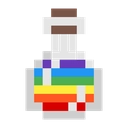
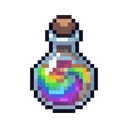
Update emojis, updated hive-ce reminder, updated diamond skin, bugfixes

diff --git a/content/rebirth.py b/content/rebirth.py
@@ -42,21 +42,20 @@ async def command_rebirth_guide(
         text_displays = await functions.parse_text_displays(bot_message)
         for text_display in text_displays:
             inventory = f'{inventory}{text_display}\n'
-    inventory_data['apple'] = await functions.get_inventory_item(inventory, 'apple')
-    inventory_data['chestnut_leaf'] = await functions.get_inventory_item(inventory, 'chestnutleaf')
-    inventory_data['copper_nugget'] = await functions.get_inventory_item(inventory, 'coppernugget')
-    inventory_data['energy_drink'] = await functions.get_inventory_item(inventory, 'energydrink')
-    inventory_data['epic_potion'] = await functions.get_inventory_item(inventory, 'epicpotion')
-    inventory_data['golden_nugget'] = await functions.get_inventory_item(inventory, 'goldennugget')
-    inventory_data['golden_sapling'] = await functions.get_inventory_item(inventory, 'golden_sapling')
-    inventory_data['honey'] = await functions.get_inventory_item(inventory, 'honey')
-    inventory_data['honey_pot'] = await functions.get_inventory_item(inventory, 'honeypot')
-    inventory_data['insecticide'] = await functions.get_inventory_item(inventory, 'insecticide')
-    inventory_data['leaf'] = await functions.get_inventory_item(inventory, 'leaf')
-    inventory_data['silver_nugget'] = await functions.get_inventory_item(inventory, 'silvernugget')
-    inventory_data['sweet_apple'] = await functions.get_inventory_item(inventory, 'sweet_apple')
-    inventory_data['water_bottle'] = await functions.get_inventory_item(inventory, 'waterbottle')
-    inventory_data['wooden_nugget'] = await functions.get_inventory_item(inventory, 'woodennugget')
+    inventory_data['apple'] = await functions.get_inventory_item(inventory, 'apple_2')
+    inventory_data['chestnut_leaf'] = await functions.get_inventory_item(inventory, 'chestnut_leaf_2')
+    inventory_data['copper_nugget'] = await functions.get_inventory_item(inventory, 'copper_nugget_2')
+    inventory_data['energy_drink'] = await functions.get_inventory_item(inventory, 'edrink_2')
+    inventory_data['epic_potion'] = await functions.get_inventory_item(inventory, 'epic_potion_2')
+    inventory_data['golden_nugget'] = await functions.get_inventory_item(inventory, 'golden_nugget_2')
+    inventory_data['golden_sapling'] = await functions.get_inventory_item(inventory, 'golden_sapling_2')
+    inventory_data['honey'] = await functions.get_inventory_item(inventory, 'honey_3')
+    inventory_data['insecticide'] = await functions.get_inventory_item(inventory, 'insecticide_2')
+    inventory_data['leaf'] = await functions.get_inventory_item(inventory, 'leaf_2')
+    inventory_data['silver_nugget'] = await functions.get_inventory_item(inventory, 'silver_nugget_2')
+    inventory_data['sweet_apple'] = await functions.get_inventory_item(inventory, 'sweet_apple_2')
+    inventory_data['water_bottle'] = await functions.get_inventory_item(inventory, 'water_bottle_2')
+    inventory_data['wood'] = await functions.get_inventory_item(inventory, 'wood_3')
     embed = await embed_rebirth_guide(ctx_or_message, inventory_data, user, miri_mode, user_settings)
     if isinstance(ctx_or_message, discord.ApplicationContext):
         await ctx_or_message.respond(embed=embed)
@@ -69,7 +68,7 @@ async def embed_rebirth_guide(ctx_or_message: Union[discord.ApplicationContext, 
                               inventory_data: Dict, user: discord.User, miri_mode: bool, user_settings: users.User) -> discord.Embed:
     """Rebirth guide embed"""
     copper_nuggets = inventory_data['copper_nugget'] + (inventory_data['silver_nugget'] * 8)
-    wooden_nuggets = inventory_data['wooden_nugget']
+    wooden_nuggets = inventory_data['wood']
     copper_nuggets_crafted = 0
     copper_nuggets_dismantled = 0
     insecticides_crafted = 0
@@ -91,17 +90,9 @@ async def embed_rebirth_guide(ctx_or_message: Union[discord.ApplicationContext, 
             break
     apples = inventory_data['apple']
     honey = inventory_data['honey']
-    honey_pots = inventory_data['honey_pot']
-    sweet_apples_crafted_without_crafting = min(honey // 10, honey_pots // 2)
-    honey_left_after_sweet_apples_craft = honey - (sweet_apples_crafted_without_crafting * 10)
-    if honey_left_after_sweet_apples_craft < 0: honey_left_after_sweet_apples_craft = 0
-    honey_pots_left_after_sweet_apples_craft = honey_pots - (sweet_apples_crafted_without_crafting * 2)
-    if honey_pots_left_after_sweet_apples_craft < 0: honey_pots_left_after_sweet_apples_craft = 0
-    sweet_apples_crafted = min((sweet_apples_crafted_without_crafting + (honey_left_after_sweet_apples_craft // 30)), apples // 10)
+    sweet_apples_crafted = min(honey // 30, apples // 10)
     apples = apples - (sweet_apples_crafted * 10)
-    honey_pots_crafted = sweet_apples_crafted * 2 - honey_pots
-    if honey_pots_crafted < 0: honey_pots_crafted = 0
-    honey = honey - (honey_pots_crafted * 10)
+    honey = honey - (sweet_apples_crafted * 30)
     leaves = inventory_data['leaf']
     epic_potions_crafted = min(inventory_data['golden_sapling'], honey // 10, leaves)
     honey = honey - (epic_potions_crafted * 10)
@@ -120,7 +111,7 @@ async def embed_rebirth_guide(ctx_or_message: Union[discord.ApplicationContext, 
         f'{emojis.ENERGY} {strings.SLASH_COMMANDS["raid"]} to empty your energy\n'
         f'{emojis.READY} {strings.SLASH_COMMANDS["hive claim energy"]} if ready\n'
         f'{emojis.ENERGY} {strings.SLASH_COMMANDS["raid"]} to empty your energy\n'
-        f'{emojis.ENERGY_DRINK} {strings.SLASH_COMMANDS["use"]} as many energy drinks as you can if you have any\n'
+        f'{emojis.ENERGY_DRINK} {strings.SLASH_COMMANDS["use"]} your energy drink if you can\n'
         f'{emojis.ENERGY} {strings.SLASH_COMMANDS["raid"]} to empty your energy\n'
         f'{emojis.CHEST_WOODEN} If you have chests ready, do **not** open them until after rebirth\n'
     )
@@ -146,13 +137,8 @@ async def embed_rebirth_guide(ctx_or_message: Union[discord.ApplicationContext, 
             f'{craft_dismantle}\n'
             f'{emojis.INSECTICIDE} {strings.SLASH_COMMANDS["craft"]} `all` insecticides'
         )
-    if honey_pots_crafted > 0:
-        craft_dismantle = (
-            f'{craft_dismantle}\n'
-            f'{emojis.HONEY_POT} {strings.SLASH_COMMANDS["craft"]} `{honey_pots_crafted:,}` honey pots'
-        )
     if sweet_apples_crafted > 0:
-        if apples < 10 or (sweet_apples_crafted == (honey_pots + honey_pots_crafted) // 2):
+        if apples < 10 or (sweet_apples_crafted == (honey + sweet_apples_crafted) // 30):
             sweet_apples_amount = 'all'
         else:
             sweet_apples_amount = f'{sweet_apples_crafted:,}'
@@ -169,11 +155,6 @@ async def embed_rebirth_guide(ctx_or_message: Union[discord.ApplicationContext, 
         craft_dismantle = (
             f'{craft_dismantle}\n'
             f'{emojis.WATER_BOTTLE} {strings.SLASH_COMMANDS["craft"]} `all` water bottles'
-        )
-    if honey >= 10 and not miri_mode:
-        craft_dismantle = (
-            f'{craft_dismantle}\n'
-            f'{emojis.HONEY_POT} {strings.SLASH_COMMANDS["craft"]} `all` honey pots'
         )
     if craft_dismantle == '':
         craft_dismantle = f'{emojis.ENABLED} All done!'
@@ -245,11 +226,6 @@ async def embed_rebirth_guide(ctx_or_message: Union[discord.ApplicationContext, 
         sell = (
             f'{sell}\n'
             f'{emojis.WATER_BOTTLE} {strings.SLASH_COMMANDS["sell"]} `all` water bottles'
-        )
-    if inventory_data['honey_pot'] > 0 or honey_pots_crafted > 0 and not miri_mode:
-        sell = (
-            f'{sell}\n'
-            f'{emojis.HONEY_POT} {strings.SLASH_COMMANDS["sell"]} `all` honey pots'
         )
     if leaves > 0 and not miri_mode:
         sell = (

diff --git a/resources/emojis.py b/resources/emojis.py
@@ -1,13 +1,13 @@
 # emojis.py
 
 # Tree
-APPLE = '<:apple:1086547706576637952>'
+APPLE = '<:apple:1549480871042752643>'
 BEE_BREAD = '<:bee_bread:1479878730502639807>'
 BOOST_DROP_CHANCE = '<:boost_drop_chance:1084374702736281641>'
 BOOST_RAID_SHIELD = '<:boost_raid_shield:1084374704766320670>'
 BOOST_XP = '<:boost_xp:1084374706330796102>'
 BUNNY = '<:bunny:1489545764001550366>'
-CANDY = '<:candy:1488946213285007461> '
+CANDY = '<:candy:1488946213285007461>'
 CHEST_EASTER = '<:chest_easter:1488604338472488970>'
 CHEST_GOLDEN = '<:chest_golden:1546926428820475904>'
 CHEST_VALENTINE = '<:chest_valentine:1472508100643651584>'
@@ -16,8 +16,7 @@ CHEST_WOODEN = '<:chest_wooden:1546926427314847844>'
 CHIPS = '<a:chips:1502242232856612985>'
 COOLDOWN = '<:cooldown:1086191055092846602>'
 COIN = '<:coin:1267761357554454578>'
-CRYSTAL = '<:crystal:1082741292800413696>'
-DIAMOND_RING = '<:diamondring:1267761355868602368>'
+CRYSTAL = '<:crystal:1550074945491706017>'
 DIRT = '<:dirt:1082741278913073232>'
 DONOR0 = '<:donor0:1082758335796879380>'
 DONOR1 = '<:donor1:1082741417673228410>'
@@ -26,38 +25,37 @@ DONOR3 = '<:donor3:1082741306444501002>'
 DONOR4 = '<:donor4:1082741419984298095>'
 DONOR5 = '<:donor5:1082741303156158515>'
 ENERGY = '<:energy:1082741290803925102>'
-ENERGY_DRINK = '<:energy_drink:1086547709990805504>'
-EPIC_POTION = '<:epic_potion:1086547711320399892>'
+ENERGY_DRINK = '<:energy_drink:1549480873043427368>'
+EPIC_POTION = '<:epic_potion:1549480876910448680>'
 EPICNESS = '<:epicness:1489545813884403782>'
 FERTILITY = '<:fertility:1489545816308977664>'
-GEM = '<a:gem:1267761359085506603>'
+GEM = '<a:gem:1549482562391376022>'
 HIVE = '<:hive:1082741277713498152>'
-HONEY = '<:honey:1086547713669206057> '
-HONEY_POT = '<:honey_pot:1086547715166572665> '
-INCUBATOR = '<:incubator:1479879484936032278>'
-INSECTICIDE = '<:insecticide:1084374707710734427>'
+HONEY = '<:honey:1549480867544440902>'
+INCUBATOR = '<:incubator:1550142458153668738>'
+INSECTICIDE = '<:insecticide:1549480874553245696>'
 LABORATORY = '<:laboratory:1086191057324212254>'
 LARVA_QUEEN = '<:larva_queen:1479521131768709171>'
 LARVA_SOLDIER = '<:larva_soldier:1479521133014286336>'
 LARVA_WORKER = '<:larva_worker:1479521135015235775>'
-LEAF = '<:leaf:1086547717372772372> '
-LEAF_CHESTNUT = '<:leaf_chestnut:1086547708229189665> '
-LOADING = '<a:loading:1086547718572343408> '
+LEAF = '<:leaf:1549480880718872576>'
+LEAF_CHESTNUT = '<:leaf_chestnut:1549480878806401145>'
+LOADING = '<a:loading:1086547718572343408>'
 LUCK = '<:luck:1082741284407607420>'
-NUGGET_COPPER = '<:nugget_copper:1084824592444575794>'
-NUGGET_DIAMOND = '<a:nugget_diamond:1137987908113027112>'
-NUGGET_GOLDEN = '<:nugget_golden:1084824587633705010>'
-NUGGET_SILVER = '<:nugget_silver:1084824590682955836>'
-NUGGET_WOODEN = '<:nugget_wooden:1084824593950310410>'
+MEDAL_DIAMOND = '<:medal_diamond:1549480865162338434>'
+MEDAL_GOLDEN = '<:medal_golden:1549480863367045173>'
+NUGGET_COPPER = '<:nugget_copper:1549480920053059685>'
+NUGGET_DIAMOND = '<:nugget_diamond:1549480894358618182>'
+NUGGET_GOLDEN = '<:nugget_golden:1549480896199917759>'
+NUGGET_SILVER = '<:nugget_silver:1549481155974271147>'
 PUMPKIN = '<:pumpkin:1164496368941944852>'
 PRUNER_COPPER = '<:pruner_copper:1082741295665139825>'
 PRUNER_DIAMOND = '<:pruner_diamond:1112255493747003433>'
 PRUNER_GOLDEN = '<:pruner_golden:1082741570647900301>'
 PRUNER_SILVER = '<:pruner_silver:1082741573344821299>'
 PRUNER_WOODEN = '<:pruner_wooden:1082741574930272287>'
-QUEEN_BEE_A = '<a:queen_bee:1350083320502947951>'
-QUEEN_BEE_S = '<:queen_bee:1084374709669466202>'
-READY = '<:ready:1086547721692917790> '
+QUEEN_BEE = '<a:queen_bee_a:1550139034590904380>'
+READY = '<:ready:1086547721692917790>'
 REBIRTH = '<:rebirth:1084519060118708314>'
 RESEARCH = '<:research:1082741280783741070>'
 ROYAL_JELLY = '<:royal_jelly:1479878733962809506>'
@@ -78,11 +76,12 @@ SKIN_VALENTINE = '<:skin_valentine:1473051388069154958>'
 SKIN_VECTOR = '<:skin_vector:1267725152502677568>'
 SKIN_XMAS = '<:skin_xmas:1267725127668207660>'
 SOLDIER_BEE = '<a:soldier_bee:1350083322059161600>'
-STAT_LEVEL = '<:stat_level:1084526033337847818> '
-STAT_XP = '<:stat_xp:1084519075503427664> '
-SWEET_APPLE = '<:sweet_apple:1082741576167604364>'
+STAT_LEVEL = '<:stat_level:1084526033337847818>'
+STAT_XP = '<:stat_xp:1084519075503427664>'
+SWEET_APPLE = '<:sweet_apple:1549480882992058428>'
 UPGRADE = '<:upgrade:1082741282264330310>'
-WATER_BOTTLE = '<:water_bottle:1086547745793392670> '
+WATER_BOTTLE = '<:water_bottle:1549489489762586684>'
+WOOD = '<:wood:1549480922787745932>'
 XP = '<:xp:1083662635607789569>'
 
 # Misc

diff --git a/processing/hive.py b/processing/hive.py
@@ -1,10 +1,11 @@
 # hive.py
 
 from datetime import timedelta
+import random
 from typing import Dict, Optional
 
 import discord
-from discord import message
+from discord import utils
 
 from cache import messages
 from database import reminders, users
@@ -55,11 +56,14 @@ async def create_reminder(message: discord.Message, embed_data: Dict, user: Opti
         if not user_settings.bot_enabled: return add_reaction
         if user_settings.reminder_hive_energy.enabled or user_settings.ready_show_hive_energy:
             user_command = await functions.get_game_command(user_settings, 'hive claim energy')
-            time_left = await functions.calculate_time_left_from_cooldown(message, user_settings, 'hive-energy')
-            if time_left < timedelta(0): return add_reaction
+            current_time = utils.utcnow()
+            midnight_today = current_time.replace(hour=0, minute=0, microsecond=0)
+            end_time = midnight_today + timedelta(days=1, seconds=random.randint(0, 300))
+            time_to_midnight = end_time - current_time
+            user_command = await functions.get_game_command(user_settings, 'calendar')
             reminder_message = user_settings.reminder_hive_energy.message.replace('{command}', user_command)
             reminder: reminders.Reminder = (
-                await reminders.insert_reminder(user.id, 'hive-energy', time_left,
+                await reminders.insert_reminder(user.id, 'hive-energy', time_to_midnight,
                                                 message.channel.id, reminder_message)
             )
             if user_settings.reactions_enabled and reminder.record_exists:

diff --git a/processing/prune.py b/processing/prune.py
@@ -76,11 +76,11 @@ async def create_reminder(message: discord.Message, embed_data: Dict, user: Opti
         current_time = utils.utcnow().replace(microsecond=0)
         if user_settings.tracking_enabled:
             await tracking.insert_log_entry(user.id, message.guild.id, 'prune', current_time)
-        nugget_wooden_match = re.search(r'woodennugget:\d+>\s*\*\*(.+?)\*\*', message.content.lower())
-        nugget_copper_match = re.search(r'coppernugget:\d+>\s*\*\*(.+?)\*\*', message.content.lower())
-        nugget_silver_match = re.search(r'silvernugget:\d+>\s*\*\*(.+?)\*\*', message.content.lower())
-        nugget_golden_match = re.search(r'goldennugget:\d+>\s*\*\*(.+?)\*\*', message.content.lower())
-        nugget_diamond_match = re.search(r'diamondnugget:\d+>\s*\*\*(.+?)\*\*', message.content.lower())
+        nugget_wooden_match = re.search(r'wood_3:\d+>\s*\*\*(.+?)\*\*', message.content.lower())
+        nugget_copper_match = re.search(r'copper_nugget_2:\d+>\s*\*\*(.+?)\*\*', message.content.lower())
+        nugget_silver_match = re.search(r'silver_nugget_2:\d+>\s*\*\*(.+?)\*\*', message.content.lower())
+        nugget_golden_match = re.search(r'golden_nugget_2:\d+>\s*\*\*(.+?)\*\*', message.content.lower())
+        nugget_diamond_match = re.search(r'diamond_nugget_2:\d+>\s*\*\*(.+?)\*\*', message.content.lower())
         bee_bread_match = re.search(r'beebread:\d+>\s*\*\*(.+?)\*\*', message.content.lower())
         royal_jelly_match = re.search(r'royaljelly:\d+>\s*\*\*(.+?)\*\*', message.content.lower())
         if nugget_wooden_match:

diff --git a/processing/raid.py b/processing/raid.py
@@ -61,7 +61,7 @@ async def call_helpers_on_failed_raid(message: discord.Message, embed_data: Dict
         message_content = None
         if user_settings.helper_context_enabled:
             message_content = f"➜ {strings.SLASH_COMMANDS['raid']}"
-            if 'chest' in embed_data['field0']['value'].lower():
+            if 'chest' in embed_data['field1']['value'].lower():
                 message_content = f"➜ {strings.SLASH_COMMANDS['chests']}\n{message_content}"
         if message_content:
             await message.reply(message_content)
@@ -101,13 +101,13 @@ async def call_helpers_on_successful_raid(message: discord.Message, embed_data: 
                 return add_reaction
         if not user_settings.bot_enabled: return add_reaction
 
-        if 'chest' in embed_data['field0']['value'].lower():
+        if 'chest' in embed_data['field1']['value'].lower():
             await user_settings.update(chests_in_queue=user_settings.chests_in_queue + 1)
         
         message_content = None
         if user_settings.helper_context_enabled:
             message_content = f"➜ {strings.SLASH_COMMANDS['raid']}"
-            if 'chest' in embed_data['field0']['value'].lower():
+            if 'chest' in embed_data['field1']['value'].lower():
                 message_content = f"➜ {strings.SLASH_COMMANDS['chests']}\n{message_content}"
         if message_content:
             await message.reply(message_content)

diff --git a/processing/incubator.py b/processing/incubator.py
@@ -263,11 +263,11 @@ async def create_nugget_alert(message: discord.Message, embed_data: Dict, user: 
         if not user_settings.bot_enabled or not user_settings.alert_nugget_enabled: return add_reaction
 
         dropped_nuggets = {}
-        nugget_wooden_match = re.search(r'\*\*`(.+?)`\*\*.+woodennugget', fields.lower())
-        nugget_copper_match = re.search(r'\*\*`(.+?)`\*\*.+coppernugget', fields.lower())
-        nugget_silver_match = re.search(r'\*\*`(.+?)`\*\*.+silvernugget', fields.lower())
-        nugget_golden_match = re.search(r'\*\*`(.+?)`\*\*.+goldennugget', fields.lower())
-        nugget_diamond_match = re.search(r'\*\*`(.+?)`\*\*.+diamondnugget', fields.lower())
+        nugget_wooden_match = re.search(r'\*\*`(.+?)`\*\*.+wood', fields.lower())
+        nugget_copper_match = re.search(r'\*\*`(.+?)`\*\*.+copper_nugget', fields.lower())
+        nugget_silver_match = re.search(r'\*\*`(.+?)`\*\*.+silver_nugget', fields.lower())
+        nugget_golden_match = re.search(r'\*\*`(.+?)`\*\*.+golden_nugget', fields.lower())
+        nugget_diamond_match = re.search(r'\*\*`(.+?)`\*\*.+diamond_nugget', fields.lower())
         if nugget_wooden_match:
             nugget_wooden_amount = int(re.sub(r'\D', '', nugget_wooden_match.group(1)))
             dropped_nuggets['Wooden'] = nugget_wooden_amount

diff --git a/processing/chests.py b/processing/chests.py
@@ -61,9 +61,9 @@ async def call_context_helper_on_chest_open(message: discord.Message, embed_data
         if rebirth_match:
             rebirth_amount = int(re.sub(r'\D', '', rebirth_match.group(1)))
             await user_settings.update(rebirth=user_settings.rebirth + rebirth_amount)
+        dropped_nuggets = {}
         if user_settings.alert_nugget_enabled:
-            dropped_nuggets = {}
-            nugget_wooden_match = re.search(r'`(.+?)`.+?\*\*wooden nugget', embed_data['field0']['value'].lower())
+            nugget_wooden_match = re.search(r'`(.+?)`.+?\*\*wood', embed_data['field0']['value'].lower())
             nugget_copper_match = re.search(r'`(.+?)`.+?\*\*copper nugget', embed_data['field0']['value'].lower())
             nugget_silver_match = re.search(r'`(.+?)`.+?\*\*silver nugget', embed_data['field0']['value'].lower())
             nugget_golden_match = re.search(r'`(.+?)`.+?\*\*golden nugget', embed_data['field0']['value'].lower())

diff --git a/resources/strings.py b/resources/strings.py
@@ -132,7 +132,7 @@ ACTIVITIES_BOOSTS_EMOJIS = {
     'drop-chance-boost': emojis.BOOST_DROP_CHANCE,
     'easter-candy': emojis.CANDY,
     'insecticide': emojis.INSECTICIDE,
-    'queen-bee-boost': emojis.QUEEN_BEE_S,
+    'queen-bee-boost': emojis.QUEEN_BEE,
     'raid-shield': emojis.BOOST_RAID_SHIELD,
     'spooky-boost': emojis.PUMPKIN,
     'sweet-apple': emojis.SWEET_APPLE,
@@ -347,7 +347,7 @@ SKIN_XMAS = 'skin_xmas'
 SKIN_PHOENIX = 'skin_phoenix'
 
 NUGGETS = {
-    'Wooden': emojis.NUGGET_WOODEN,
+    'Wooden': emojis.WOOD,
     'Copper': emojis.NUGGET_COPPER,
     'Silver': emojis.NUGGET_SILVER,
     'Golden': emojis.NUGGET_GOLDEN,
@@ -369,7 +369,7 @@ PRUNER_TYPES = {
 }
 
 NUMBERS_ROMAN_ARABIC = {
-    'ix': 1,
+    'i': 1,
     'ii': 2,
     'iii': 3,
     'iv': 4,

diff --git a/processing/cooldowns.py b/processing/cooldowns.py
@@ -1,6 +1,7 @@
 # cooldowns.py
 
 from datetime import timedelta
+import random
 import re
 from typing import Dict, Optional
 import unicodedata
@@ -260,6 +261,8 @@ async def update_reminders_in_cooldown_list(message: discord.Message, embed_data
             cd_timestring = cooldown[1]
             cd_message = cooldown[2]
             time_left = await functions.parse_timestring_to_timedelta(cd_timestring)
+            if cd_activity == 'hive-energy':
+                time_left = time_left + timedelta(seconds=random.randint(0, 300))
             if time_left <= timedelta(seconds=1): continue
             reminder: reminders.Reminder = (
                 await reminders.insert_reminder(interaction_user.id, cd_activity, time_left,

diff --git a/content/tracking.py b/content/tracking.py
@@ -115,7 +115,7 @@ async def design_field(timeframe: timedelta, user: discord.Member) -> str:
     report: tracking.LogReport = await tracking.get_log_report(user.id, timeframe)
     field_content = (
         f'{emojis.BP} `prune`: {report.prune_amount:,}\n'
-        f'{emojis.DETAIL2} {emojis.NUGGET_WOODEN} {report.nugget_wooden_amount:,}\n'
+        f'{emojis.DETAIL2} {emojis.WOOD} {report.nugget_wooden_amount:,}\n'
         f'{emojis.DETAIL2} {emojis.NUGGET_COPPER} {report.nugget_copper_amount:,}\n'
         f'{emojis.DETAIL2} {emojis.NUGGET_SILVER} {report.nugget_silver_amount:,}\n'
         f'{emojis.DETAIL2} {emojis.NUGGET_GOLDEN} {report.nugget_golden_amount:,}\n'

diff --git a/content/skins.py b/content/skins.py
@@ -145,8 +145,8 @@ async def embed_skins(active_skin: str = 'skin_default') -> tuple[discord.Embed,
             )
         case strings.SKIN_DIAMOND:
             source = (
-                f'Available in the **seasonal** {strings.SLASH_COMMANDS["shop"]} for '
-                f'100 {emojis.GEM} + 10,000 {emojis.COIN} + 45,000 {emojis.DIAMOND_RING}'
+                f'Available in the **skinpack** {strings.SLASH_COMMANDS["shop"]} for '
+                f'100 {emojis.GEM} + 10,000 {emojis.COIN} + 350,000 {emojis.MEDAL_GOLDEN} + 50,000 {emojis.MEDAL_DIAMOND}'
             )
         case strings.SKIN_EASTER:
             source = (

diff --git a/resources/regex.py b/resources/regex.py
@@ -37,7 +37,7 @@ COMMAND_SHOP = re.compile(r"\bshop\b")
 COMMAND_TOOL = re.compile(r"\btool\b")
 COMMAND_USE_CANDY = re.compile(r"\buse\b\s+\bcandy\b")
 COMMAND_USE_EASTER_EGG = re.compile(r"\buse\b\s+(?:\beaster\b\s+)?\begg\b")
-COMMAND_USE_ENERGY_DRINK = re.compile(r"\buse\b\s+\benergy\b\s+\bdrink\b")
+COMMAND_USE_ENERGY_DRINK = re.compile(r"\buse\b\s+(?:\benergy\b\s+\bdrink\b|\bedrink\b)")
 COMMAND_USE_INSECTICIDE = re.compile(r"\buse\b\s+\binsecticide\b")
 COMMAND_USE_SWEET_APPLE = re.compile(r"\buse\b\s+\bsweet\b\s+\bapple\b")
 COMMAND_VOTE = re.compile(r"\bvote\b")
